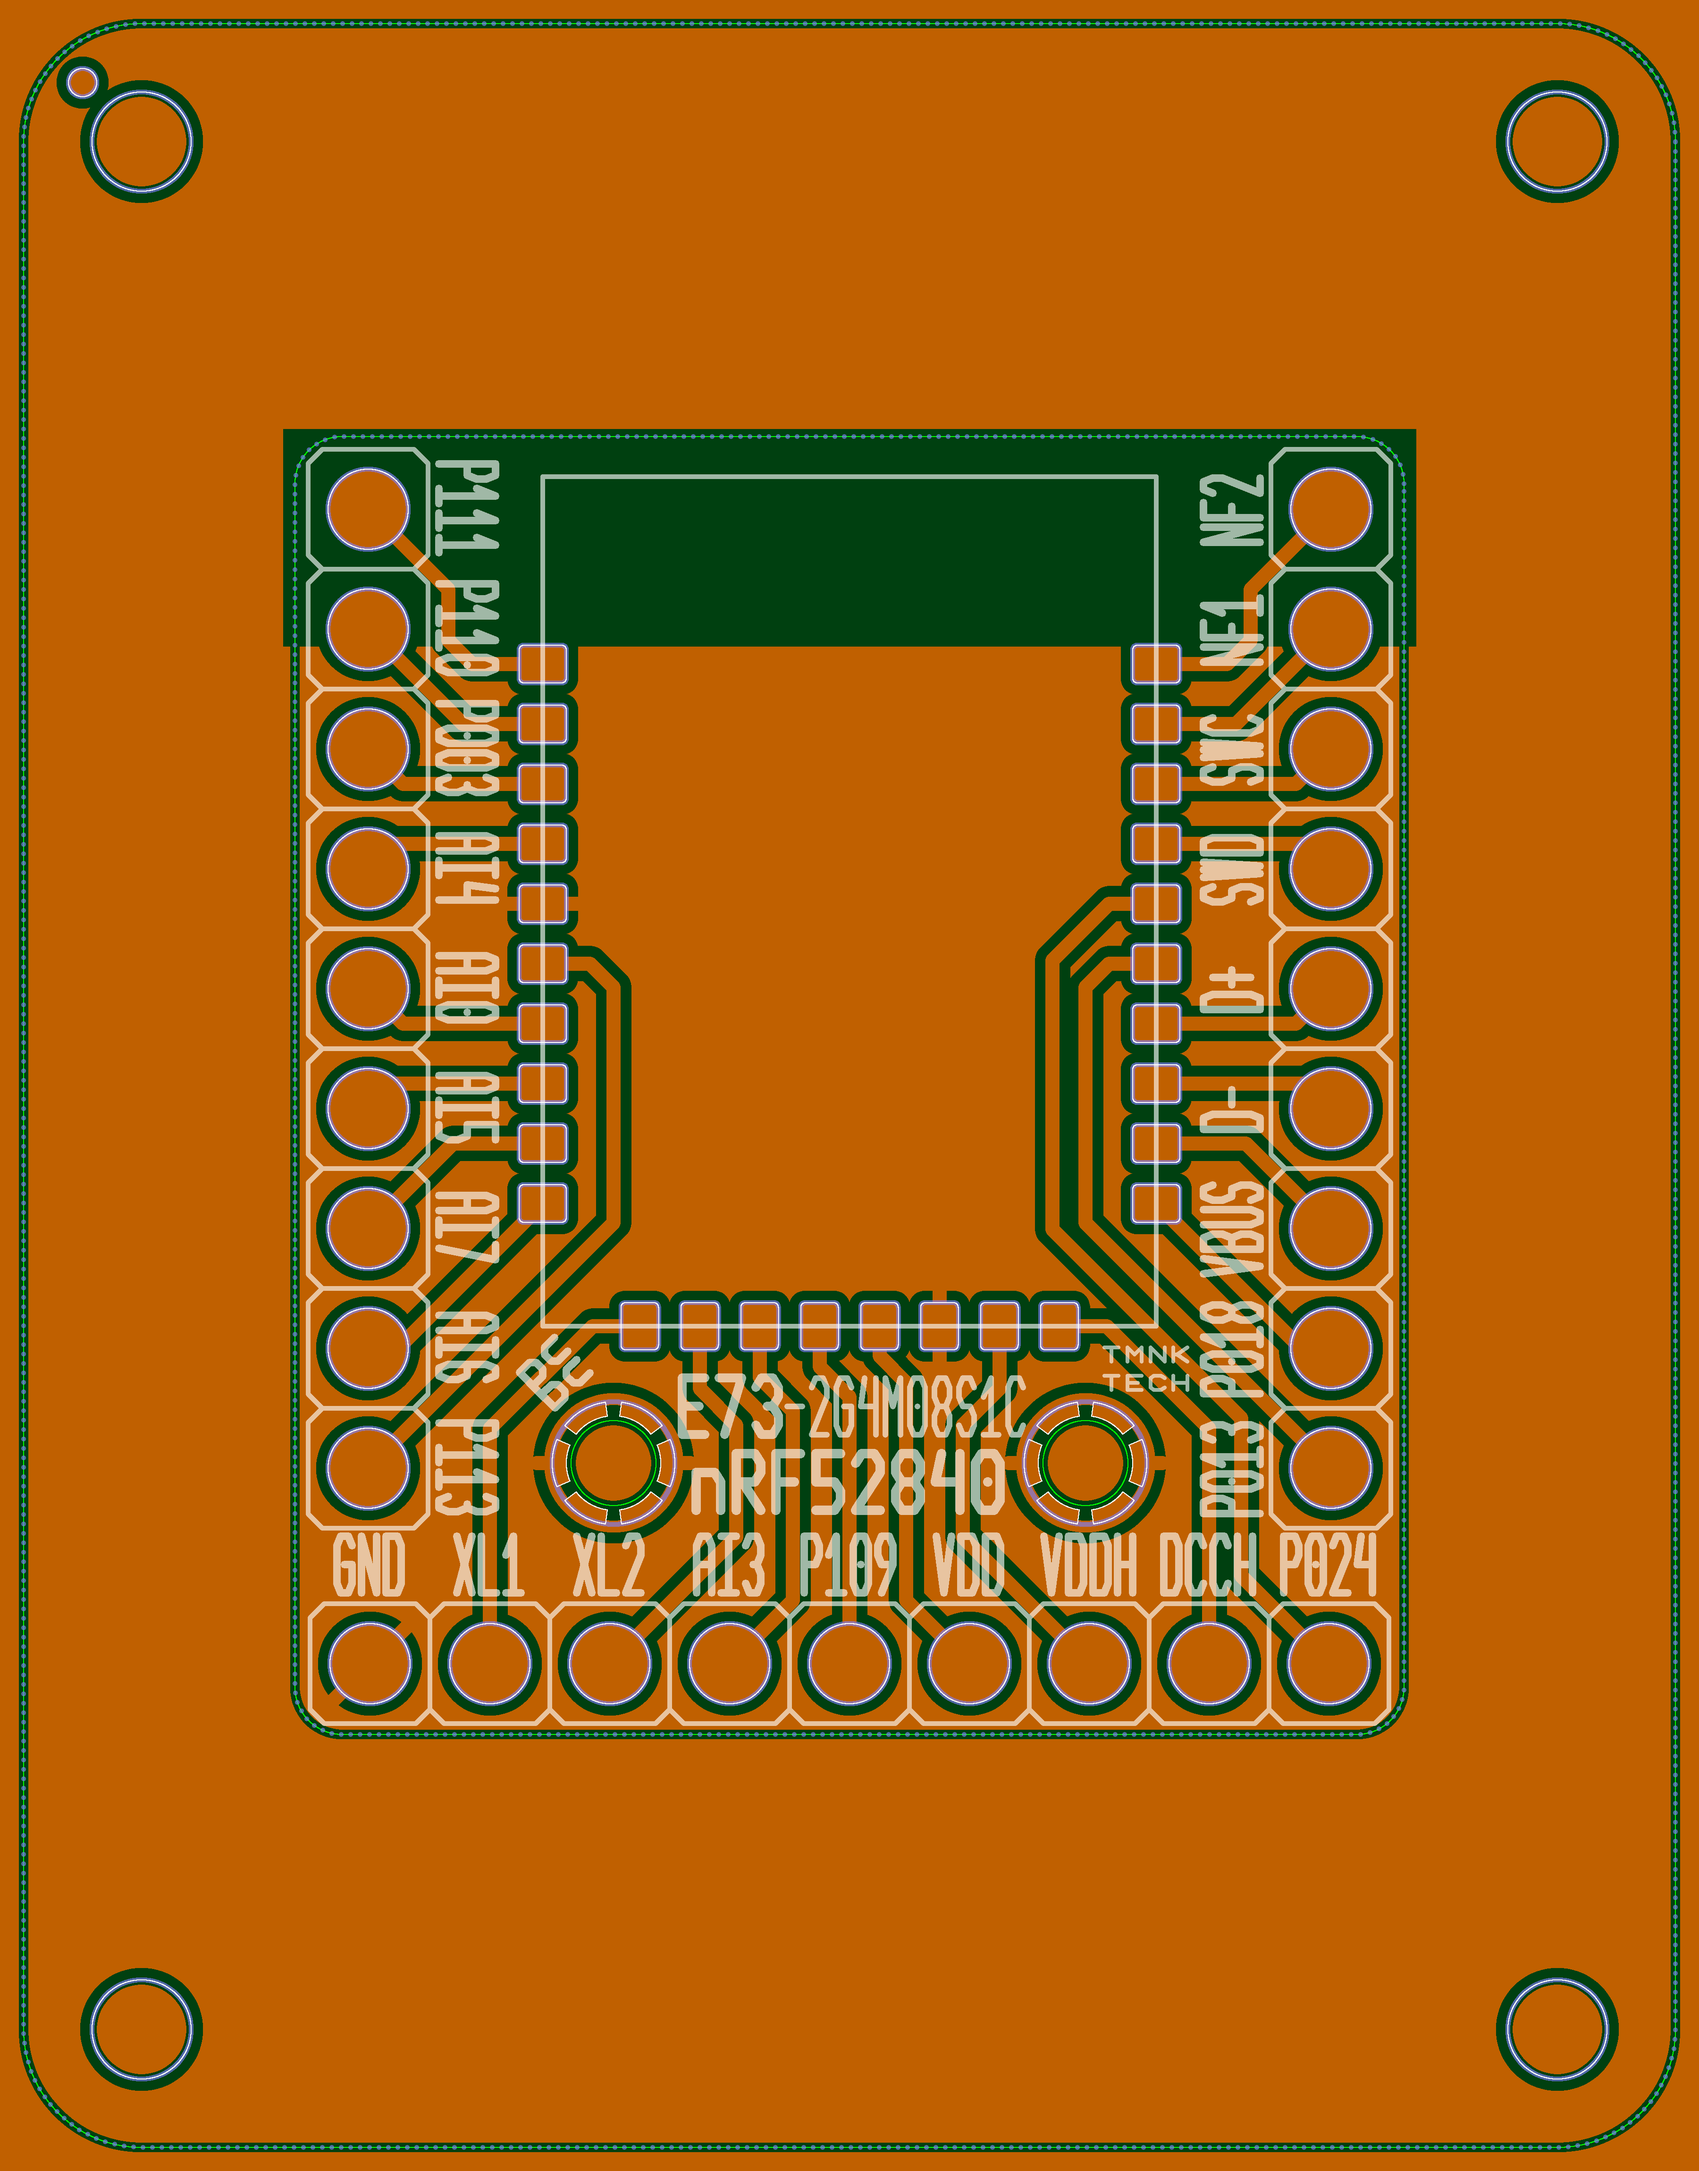
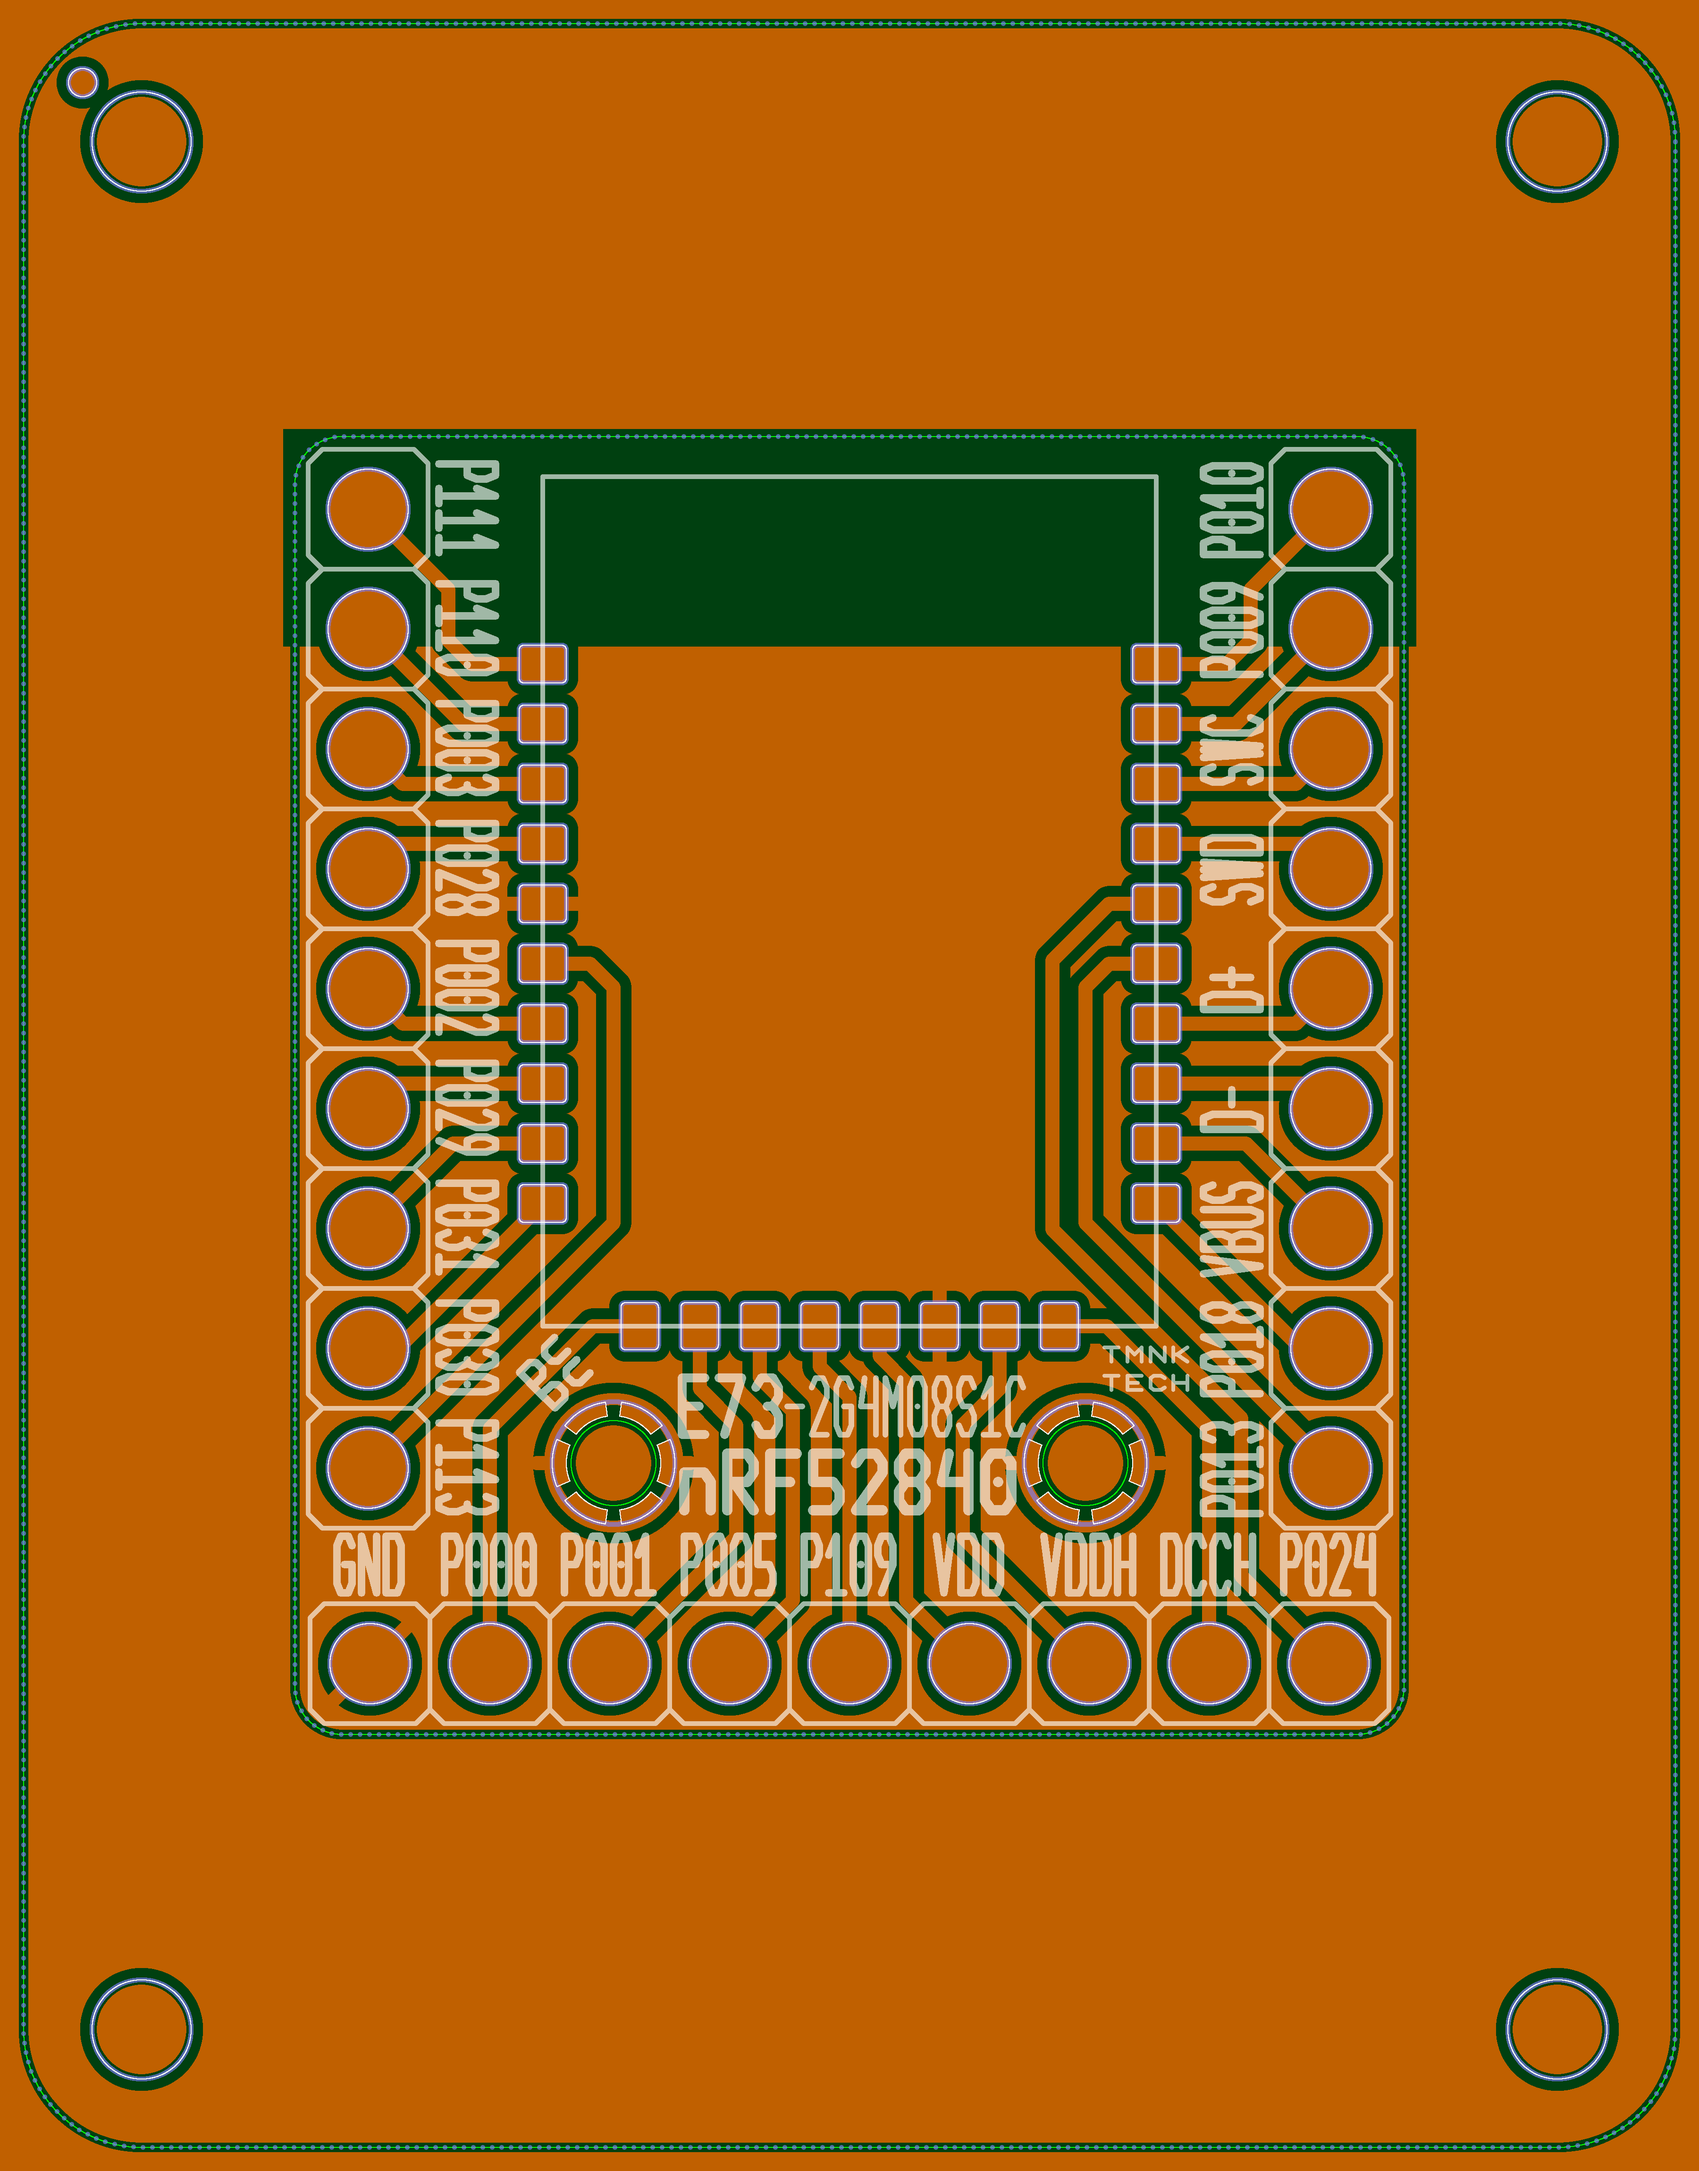
Ebyte E73: finish

diff --git a/eda/pcbc/ebyte/e73/board.go b/eda/pcbc/ebyte/e73/board.go
@@ -50,13 +50,13 @@ var (
 		Marks: path.Strokes{
 			font.Bold: path.Paths{}.Append(
 				font.StringsPaths([]string{
-					"P111", "P110", "P003", "AI4", "AI0", "AI5", "AI7", "AI6", "P113",
+					"P111", "P110", "P003", "P028", "P002", "P029", "P031", "P030", "P113",
 				}, font.AlignCenter, labelShift).Transform(geom.MoveXY(-8.1, -1).RotateD(-90).Scale(labelScale)),
 				font.StringsPaths([]string{
-					"GND", "XL1", "XL2", "AI3", "P109", "VDD", "VDDH", "DCCH", "P024",
+					"GND", "P000", "P001", "P005", "P109", "VDD", "VDDH", "DCCH", "P024",
 				}, font.AlignCenter, labelShift).Transform(geom.MoveXY(0, -13.2).Scale(labelScale)),
 				font.StringsPaths([]string{
-					"P013", "P018", "VBUS", "D-", "D+", "SWD", "SWC", "NF1", "NF2",
+					"P013", "P018", "VBUS", "D-", "D+", "SWD", "SWC", "P009", "P010",
 				}, font.AlignCenter, labelShift).Transform(geom.MoveXY(8.1, -1).RotateD(90).Scale(labelScale)),
 			),
 		},
@@ -151,7 +151,7 @@ var (
 			pcbc.TmnkTech.Transform(geom.MoveXY(6.3, -6)),
 			font.CenterBold("E73").Transform(geom.MoveXY(-2.5, -6.8).ScaleXY(1.2, 2)),
 			font.CenterBold("-2G4M08S1C").Transform(geom.MoveXY(1.2, -6.8).ScaleXY(0.8, 2)),
-			font.CenterBold("nRF52840").Transform(geom.MoveXY(0, -8.4).ScaleXY(1.3, 2)),
+			font.CenterBold("nRF52840").Transform(geom.MoveXY(0, -8.4).ScaleXY(1.4, 2)),
 		),
 	}
 )
